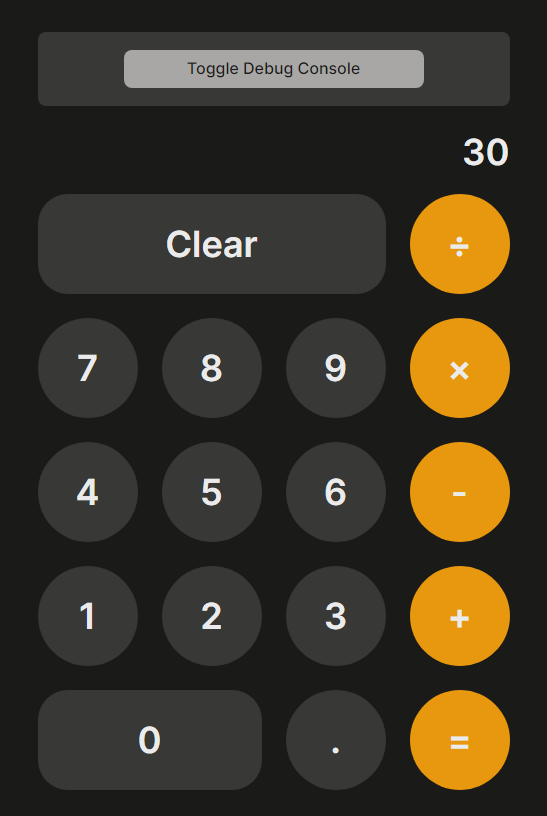
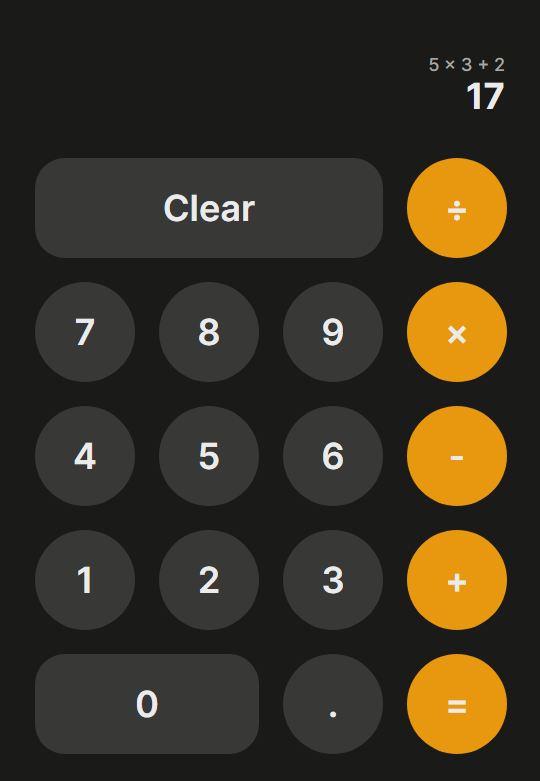
get it working while respecting order of operations

diff --git a/src/components/Calculator.tsx b/src/components/Calculator.tsx
@@ -11,7 +11,6 @@ import {
 import { useCallback, useState } from 'react';
 import { Output } from './Output';
 import axios from 'axios';
-import { Debug } from './Debug';
 
 const Container = styled.div({
   border: '1px solid black',
@@ -53,29 +52,24 @@ const BUTTON_ROWS = [
 ];
 
 export const Calculator = () => {
-  const [leftOperand, setLeftOperand] = useState<string>('');
-  const [rightOperand, setRightOperand] = useState<string>('');
-  const [operator, setOperator] = useState<string>('');
   const [input, setInput] = useState<string>('');
   const [loading, setLoading] = useState<boolean>(false);
+  const [expression, setExpression] = useState<string>('');
 
   const handleClear = useCallback(() => {
     setInput('');
-    setOperator('');
-    setLeftOperand('');
-    setRightOperand('');
   }, []);
 
   const submit = useCallback(async () => {
     try {
       setLoading(true);
 
-      await waitAsync(300);
+      await waitAsync(200); // prevent flash of loading content
 
       const { data } = await axios.post(
         'http://api.mathjs.org/v4/',
         {
-          expr: createExpression(`${leftOperand} ${operator} ${rightOperand}`),
+          expr: createExpression(input),
         },
         {
           headers: {
@@ -86,11 +80,9 @@ export const Calculator = () => {
 
       const { result } = data;
 
-      setLeftOperand(result);
       setInput(result);
-      setOperator('');
-      setRightOperand('');
       setLoading(false);
+      setExpression(input);
     } catch (err) {
       setLoading(false);
       alert(
@@ -102,69 +94,74 @@ export const Calculator = () => {
         ].join(' ')
       );
     }
-  }, [leftOperand, operator, rightOperand]);
+  }, [input]);
 
   const handleButtonClick = useCallback(
     async (value: string) => {
       if (value === Symbol.CLEAR) {
+        setExpression('');
         return handleClear();
       }
+
       if (value === Symbol.EQUAL) {
+        setExpression('');
         return submit();
       }
 
-      if (isOperator(value) && operator && rightOperand) {
-        // calculate first
-        await submit();
+      return setInput((prev) => {
+        const parts = prev.split(' ');
 
-        return setOperator(value);
-      } else if (isOperator(value)) {
-        return setOperator(value);
-      }
+        // ex: the input "5 x 3 + 1" would be separated into ["5", "x", "3", "+", 1]
 
-      let newInput = input;
+        if (parts[0] === '' && isOperator(value)) {
+          // no-op if first value is an operator
+          return prev;
+        }
 
-      if (operator && !rightOperand) {
-        // reset input when switching to rightOperand
-        newInput = '';
-      }
+        if (parts[0] === '' && isNumber(value)) {
+          // input is empty - set to value
+          return `${value}`; // make this a string, since prev.split(' ') won't work if prev is a number
+        }
 
-      if (isNumber(newInput) && isNumber(value)) {
-        // concat new number to previous number
-        newInput = `${newInput}${value}`;
-      } else if (
-        newInput.includes(Symbol.DECIMAL) &&
-        value === Symbol.DECIMAL
-      ) {
-        // no-op multiple decimal inputs
-        newInput = newInput;
-      } else if (isNumber(newInput) && value === Symbol.DECIMAL) {
-        // contact decimal to existing number
-        newInput = `${newInput}${value}`;
-      } else {
-        newInput = `${value}`;
-      }
+        const mostRecentPart = parts.pop();
 
-      setInput(newInput);
+        if (
+          mostRecentPart?.includes(Symbol.DECIMAL) &&
+          value === Symbol.DECIMAL
+        ) {
+          // no-op if current number already includes a decimal
+          return prev;
+        }
 
-      if (leftOperand && operator) {
-        setRightOperand(newInput);
-      } else if (!operator) {
-        setLeftOperand(newInput);
-      }
+        if (isOperator(mostRecentPart) && isOperator(value)) {
+          // replace existing latest operator with newest input operator
+          setExpression('');
+          return [...parts, value].join(' ');
+        }
+
+        if (isNumber(mostRecentPart) && isNumber(value)) {
+          // concat new number to previous number
+          setExpression('');
+          return [...parts, `${mostRecentPart}${value}`].join(' ');
+        }
+
+        if (isNumber(mostRecentPart) && value === Symbol.DECIMAL) {
+          // concat decimal to existing number
+          setExpression('');
+          return [...parts, `${mostRecentPart}${value}`].join(' ');
+        }
+
+        // otherwise, the new value is an operator and should be inserted after the latest part
+        setExpression('');
+        return [...parts, mostRecentPart, value].join(' ');
+      });
     },
-    [handleClear, input, leftOperand, operator, rightOperand, submit]
+    [handleClear, submit]
   );
 
   return (
     <Container>
-      <Debug
-        leftOperand={leftOperand}
-        rightOperand={rightOperand}
-        operator={operator}
-      />
-
-      <Output text={input} />
+      <Output text={input} expression={expression} />
 
       <ButtonsGrid>
         {BUTTON_ROWS.map((value) => (
@@ -172,7 +169,6 @@ export const Calculator = () => {
             key={value}
             value={value}
             loading={loading}
-            operatorSelected={value === operator}
             onClick={() => handleButtonClick(value as string)}
           />
         ))}

diff --git a/src/components/CalculatorButton.tsx b/src/components/CalculatorButton.tsx
@@ -6,72 +6,51 @@ interface Props {
   value: number | string;
   onClick: () => void;
   loading: boolean;
-  operatorSelected: boolean;
 }
 
 interface ContainerProps {
   value: number | string;
   isZero: boolean;
   isSymbol: boolean;
-  operatorSelected: boolean;
 }
 
-const Container = styled.div(
-  ({ value, isZero, isSymbol, operatorSelected }: ContainerProps) => {
-    return {
-      width: '100%',
-      height: '100px',
-      borderRadius: isZero || value === Symbol.CLEAR ? '30px' : '50%',
-      display: 'flex',
-      justifyContent: 'center',
-      alignItems: 'center',
-      backgroundColor: operatorSelected
-        ? Colors.WHITE
-        : isSymbol
-        ? Colors.ORANGE
-        : Colors.MEDIUMGREY,
-      '&:hover': {
-        backgroundColor: isSymbol
-          ? Colors.ORANGE_HOVER
-          : Colors.MEDIUMGREY_HOVER,
-      },
-      cursor: 'pointer',
-      transition: '0.2s',
-      gridColumn:
-        value === Symbol.CLEAR ? 'span 3' : isZero ? 'span 2' : 'span 1',
-    };
-  }
-);
+const Container = styled.div(({ value, isZero, isSymbol }: ContainerProps) => {
+  return {
+    width: '100%',
+    height: '100px',
+    borderRadius: isZero || value === Symbol.CLEAR ? '30px' : '50%',
+    display: 'flex',
+    justifyContent: 'center',
+    alignItems: 'center',
+    backgroundColor: isSymbol ? Colors.ORANGE : Colors.MEDIUMGREY,
+    '&:hover': {
+      backgroundColor: isSymbol ? Colors.ORANGE_HOVER : Colors.MEDIUMGREY_HOVER,
+    },
+    cursor: 'pointer',
+    transition: '0.2s',
+    gridColumn:
+      value === Symbol.CLEAR ? 'span 3' : isZero ? 'span 2' : 'span 1',
+  };
+});
 
-interface ValueProps {
-  operatorSelected: boolean;
-}
-
-const Value = styled.div(({ operatorSelected }: ValueProps) => ({
+const Value = styled.div({
   fontSize: '36px',
   fontWeight: '600',
-  color: operatorSelected ? Colors.ORANGE : Colors.WHITE,
-}));
+  color: Colors.WHITE,
+});
 
-export const CalculatorButton = ({
-  value,
-  onClick,
-  loading,
-  operatorSelected,
-}: Props) => {
-  const isOrangeButton = isOperator(value) || value === Symbol.EQUAL;
+export const CalculatorButton = ({ value, onClick, loading }: Props) => {
   return (
     <Container
       value={value}
       isZero={value === 0}
-      isSymbol={isOrangeButton}
-      operatorSelected={operatorSelected}
+      isSymbol={isOperator(value)}
       onClick={!loading ? onClick : () => {}}
     >
-      {loading && isOrangeButton ? (
+      {loading && value === Symbol.EQUAL ? (
         <ClipLoader color={Colors.ORANGE_HOVER} loading={true} size={30} />
       ) : (
-        <Value operatorSelected={operatorSelected}>{value}</Value>
+        <Value>{value}</Value>
       )}
     </Container>
   );

diff --git a/src/components/Output.tsx b/src/components/Output.tsx
@@ -3,26 +3,35 @@ import { Colors } from 'src/utils';
 
 interface Props {
   text: string;
+  expression: string;
 }
 
 const Container = styled.div({
   marginTop: '24px',
   marginBottom: '24px',
-  width: '100%',
+  width: '470px',
   textAlign: 'right',
   textWrap: 'wrap',
-  height: '40px',
+  minHeight: '80px',
 });
 
 const Copy = styled.div({
   fontSize: '36px',
-  fontWeight: '600',
+  fontWeight: '700',
   color: Colors.WHITE,
 });
 
-export const Output = ({ text }: Props) => {
+const Expression = styled.div({
+  height: '20px',
+  fontSize: '18px',
+  fontWeight: '500',
+  color: Colors.LIGHTGREY,
+});
+
+export const Output = ({ text, expression }: Props) => {
   return (
     <Container>
+      <Expression>{expression}</Expression>
       <Copy>{text}</Copy>
     </Container>
   );

diff --git a/src/utils/symbols.ts b/src/utils/symbols.ts
@@ -13,9 +13,14 @@ const Operators: string[] = [
   Symbol.MULTIPLY,
   Symbol.ADD,
   Symbol.MINUS,
+  Symbol.EQUAL,
 ];
 
-export const isOperator = (input: string | number) => {
+export const isOperator = (input: string | number | undefined) => {
+  if (!input) {
+    return false;
+  }
+
   return Operators.includes(input as string);
 };
 

diff --git a/src/components/index.tsx b/src/components/index.tsx
@@ -2,4 +2,3 @@ export * from './CalculatorButton';
 export * from './Calculator';
 export * from './PageContainer';
 export * from './Output';
-export * from './Debug';
